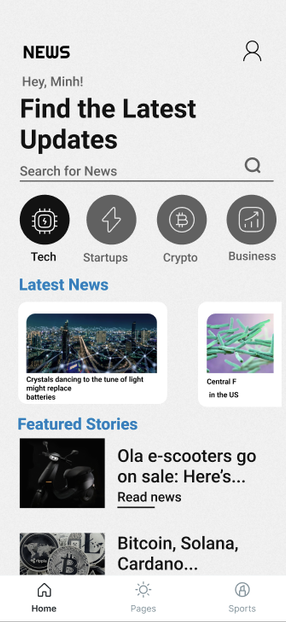
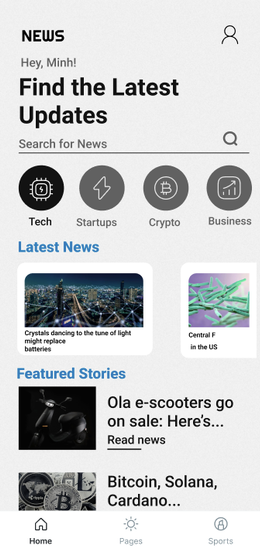
update

Changed region(s): [[0.0, 0.0309, 1.0, 1.0], [0.7077, 0.4945, 0.9846, 0.6491], [0.8308, 0.0309, 0.9231, 0.0927]]

diff --git a/style.css b/style.css
@@ -353,6 +353,7 @@ article .icon {
   cursor: default;
 }
 
+
 /* PROJECTS SECTION */
 
 #projects {
@@ -362,7 +363,7 @@ article .icon {
   padding-bottom: 4rem;
 }
 
-/* 3 project cards per row */
+/* 3 cards per row */
 #projects .about-containers {
   display: grid;
   grid-template-columns: repeat(3, 1fr);
@@ -370,10 +371,18 @@ article .icon {
   align-items: stretch;
 }
 
-/* Project card */
+/* Each project card */
 #projects .details-container {
   width: 100%;
   box-sizing: border-box;
+
+  display: grid;
+
+  /* image | title | description | button */
+  grid-template-rows: 190px 110px 1fr auto;
+
+  min-height: 650px;
+  padding: 2rem;
 }
 
 .color-container {
@@ -381,21 +390,60 @@ article .icon {
   background: rgb(250, 250, 250);
 }
 
-.project-img {
-  border-radius: 2rem;
-  width: 50%;
-  height: 50%;
+
+/* SAME IMAGE AREA */
+#projects .article-container {
+  height: 190px;
+  display: flex;
+  align-items: center;
+  justify-content: center;
 }
 
+.project-img {
+  width: auto;
+  height: 160px;
+  max-width: 80%;
+  object-fit: contain;
+  border-radius: 2rem;
+}
+
+
+/* SAME TITLE AREA */
 .project-title {
-  margin: 1rem;
+  margin: 0;
   color: black;
+
+  display: flex;
+  justify-content: center;
+  align-items: center;
+
+  text-align: center;
+}
+
+
+/* SAME DESCRIPTION AREA */
+#projects .details-container > p {
+  text-align: center;
+  margin: 0;
+  padding: 0 1rem;
+
+  display: flex;
+  justify-content: center;
+  align-items: flex-start;
+}
+
+
+/* BUTTONS ALIGN AT BOTTOM */
+#projects .btn-container {
+  margin-top: 1.5rem;
+  align-self: end;
 }
 
 .project-btn {
   color: black;
   border-color: rgb(163, 163, 163);
 }
+
 /* CONTACT */
 
 #contact {

diff --git a/index.html b/index.html
@@ -167,7 +167,7 @@
                 class="btn btn-color-2 project-btn"
                 onclick="location.href='https://github.com/minhnguyen18/ASL-Learner'"
               >
-                Github
+                Learn More
               </button>
               
             </div>
@@ -190,7 +190,7 @@
                 class="btn btn-color-2 project-btn"
                 onclick="location.href='https://github.com/minhnguyen18/News'"
               >
-                Github
+                Learn More
               </button>
               
             </div>
@@ -211,7 +211,7 @@
                 class="btn btn-color-2 project-btn"
                 onclick="location.href='https://github.com/minhnguyen18/ReactiveLearning'"
               >
-                Github
+                Learn More
               </button>
               
             </div>
@@ -231,7 +231,7 @@
                 class="btn btn-color-2 project-btn"
                 onclick="location.href='https://github.com/minhnguyen18/AgentForge'"
               >
-                Github
+                Learn More
               </button>
               
             </div>
